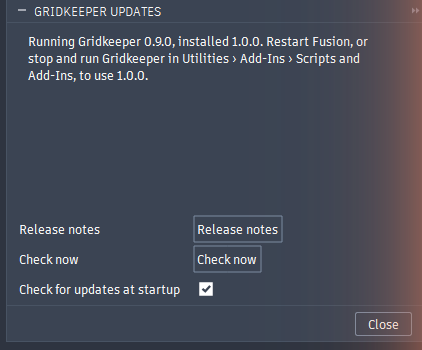
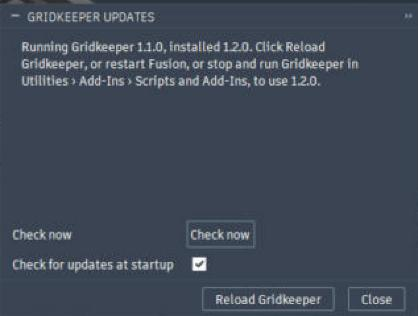
Add the dialog screenshots of round 38
Placement with and without a cell, the tab top offset, the greyed out
connection holes of a full baseplate, the box dialog with its Lid group
and the updates window after an update with Reload Gridkeeper.

diff --git a/docs/assets/images/NEEDED.md b/docs/assets/images/NEEDED.md
@@ -15,9 +15,6 @@ from GridfinityGenerator. The models in `docs/assets/models` are rendered by a F
   shows a folder path with a user name, take it again with a neutral folder), and a 3MF of a bin with a colored label
   and an insert opened in Bambu Studio, for `docs/working/export.md`.
 
-- Closed lid (round 30, p311): `dialog-box.png` again with the new group *Lid* (after round 31, which changes the
-  dialog too). For [Storage boxes](../../boxes.md).
-
 ## Taken (click test 17.11.2026, main session)
 
 - `dialog-box.png` (with *Small parts* and **Hinge**), `box-5x4x6.png` (with the orange small parts and a label in its
@@ -34,15 +31,16 @@ from GridfinityGenerator. The models in `docs/assets/models` are rendered by a F
 - `box-lid-closed.png`: a box 5 × 4 × 6 with **Lid top** *Closed*, in the view of `box-5x4x6.png`:
   [Storage boxes › Lid](../../boxes.md#lid).
 
-## Wanted (round 38, GridfinityGenerator 2.5 merged)
+## Taken (round 38, GridfinityGenerator 2.5 merged, click test, main session)
 
-Dialog screenshots, taken by the main session:
+Dialog screenshots in Fusion's dark theme:
 - `dialog-bin-placement.png`: the bin dialog's **Placement** group with **Position** *Center on origin* and **Cell**
   empty; `dialog-bin-placement-cell.png`: the same with a cell picked, **Position** greyed out. For
   [Bins › Placement](../../bins/index.md#placement).
 - `dialog-bin-tab-top-offset.png`: the **Label tab** group with **Tab top offset** 2 mm. For [Label tab and labels](../../bins/labels.md).
 - `dialog-baseplate-connection-holes.png`: a full baseplate, the connection hole inputs greyed out. For [Baseplates](../../baseplates.md).
-- `dialog-box.png` again with the group *Lid* (p431), `updates-dialog-installed.png` again after an update (p450).
+- `dialog-box.png` again with the group *Lid* (p431), `updates-dialog-installed.png` again after an update, with
+  **Reload Gridkeeper** (p450).
 
 ## Taken (round 38, rendered by `fusion-auftraege/r38_render.py`)
 

diff --git a/docs/baseplates.md b/docs/baseplates.md
@@ -101,6 +101,8 @@ around the grid, 0 or more. The paddings are user parameters of the plate, see [
 | **Add connection holes** | off | Skeletonized plates: holes between the plates for a screw or a glued-in pin. Greyed out for light and full plates. A side with padding or half cells gets none, it isn't an edge another plate meets; seams between the pieces of a filled area keep theirs |
 | **Connection hole diameter** | 3.2 mm | Up to 5 mm, greyed out without connection holes |
 
+![The Features of the baseplate dialog for a full plate: Add connection holes and Connection hole diameter greyed out](assets/images/dialog-baseplate-connection-holes.png)
+
 ![A skeletonized 2 × 2 baseplate seen from below, padded on the left and the front: connection holes only on the right and the back side](assets/models/baseplate-padding-connection-holes.png)
 
 <picture><source media="(prefers-color-scheme: dark)" srcset="../assets/gif/baseplate-connection-holes-dark.gif"><img src="../assets/gif/baseplate-connection-holes-light.gif" alt="Turning on connection holes and changing their diameter, with a skeletonized baseplate without, with 3.2 mm and with 5 mm connection holes"></picture>

diff --git a/docs/bins/index.md b/docs/bins/index.md
@@ -27,6 +27,10 @@ The dialog is long, its sections are described on these pages:
 | **Position** | Snap to free spot | *Snap to free spot* puts a new bin on the free grid spot closest to the origin, beside the bins already there. *Center on origin* centers the bin on the origin; a centered bin is centered again when it is rebuilt, also with a new size, and its joint origins go with it |
 | **Cell** | none | A cell of a baseplate or box to joint the new bin into, see [Picking a joint origin in a dialog](../working/components.md#picking-a-joint-origin-in-a-dialog). A picked cell wins: **Position** is greyed out then |
 
+![The Placement group of the bin dialog: Cell not picked, Position Center on origin](../assets/images/dialog-bin-placement.png)
+
+![The Placement group with a cell picked: Position greyed out](../assets/images/dialog-bin-placement-cell.png)
+
 A bin rebuilt in place stays where it was, unless it is centered. Settings files and bins of older versions without
 the setting load as *Snap to free spot*, as they were built. The position option is from GridfinityGenerator 2.5 by
 Le0Michine.

diff --git a/docs/bins/labels.md b/docs/bins/labels.md
@@ -17,6 +17,8 @@ top, for a label. With several compartments every compartment gets its own tab.
 | **Hollow tab** | off | Shells the tab with the wall thickness. With a single compartment it is opened through the back wall of the bin, with more compartments it is left closed. On by default for shelled bins, locked off for bins with creased walls |
 | **Open through side walls** | off | Also opens a hollow tab through the side walls where it runs into them. Single compartment only |
 
+![The Label tab inputs of the bin dialog with Tab top offset 2 mm](../assets/images/dialog-bin-tab-top-offset.png)
+
 ![A 3 × 2 bin with three compartments, their label tabs and dividers 2 mm below the top with Tab top offset 2 mm](../assets/models/bin-tab-top-offset.png)
 
 <picture><source media="(prefers-color-scheme: dark)" srcset="../../assets/gif/bin-label-tab-options-dark.gif"><img src="../../assets/gif/bin-label-tab-options-light.gif" alt="Changing the label tab length and position in the dialog, with the bin for each"></picture>

diff --git a/docs/boxes.md b/docs/boxes.md
@@ -18,7 +18,7 @@ box, see [Components and joints](working/components.md).
 
 ## Info
 
-![The Gridkeeper box dialog: Info, Size 5 × 4 × 6 with the outer size 230 × 188 × 65 mm, Magnet holes, Joint origins, Lid with the Lid top choice and Small parts with the Hinge choice](assets/images/dialog-box.png)
+![The Gridkeeper box dialog: Info, Size 5 × 4 × 6 with the outer size 230 × 188 × 65 mm with lid, Magnet holes, Lid with the Lid top choice, Small parts with the Hinge choice, Inputs and Preview](assets/images/dialog-box.png)
 
 A link to this page, the credit to Pred and the version of the add-in. When the dialog was opened by
 **Gridkeeper rebuild**, it says which box is rebuilt in place.

diff --git a/docs/getting-started/installation.md b/docs/getting-started/installation.md
@@ -33,7 +33,7 @@ what you get before you install it.
   **Gridkeeper updates** then offers **Reload Gridkeeper**, or restart Fusion, or stop and run Gridkeeper in
   **Utilities › Add-Ins › Scripts and Add-Ins**.
 
-  ![Gridkeeper updates after an update: the old version still running, the new one installed](../assets/images/updates-dialog-installed.png)
+  ![Gridkeeper updates after an update: Gridkeeper 1.1.0 still running, 1.2.0 installed, with Reload Gridkeeper and Close](../assets/images/updates-dialog-installed.png)
 
 - **Later** leaves everything as it is; the window comes again the next day.
 
